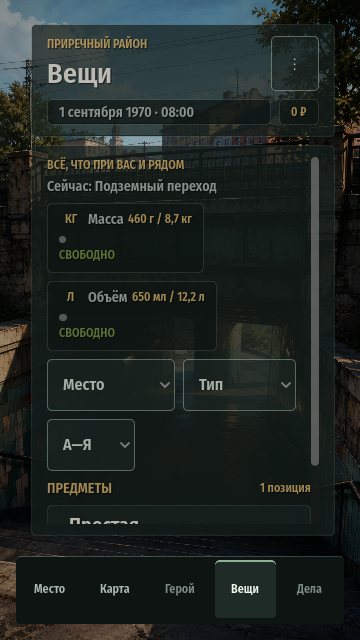
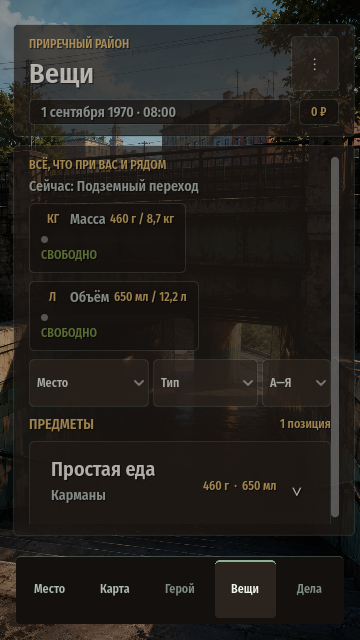
docs(ui): close the finished items and record the psyche decisions
The backlog had drifted from the code: five items were done and still listed as
open, and two rounds of work were missing from the done section entirely. Its
own rule says a finished item moves there with a date, so the drift was a
process failure, not a formatting one.

Also recorded, from discussion:

- the psyche is a single metric shown as one of seven words, and that same step
  drives the environment filter. Depression is its bottom step, not a separate
  state as the roadmap previously had it.
- the ladder was rebuilt twice. The first version stepped straight from
  равновесие to уныние with no mild band, which clinical scales avoid for good
  reason, and it mixed two axes: apathy and depression sit at low arousal while
  despair sits at high, so a single line through them read as jumps. Отчаяние is
  out and хандра fills the gap under normal.
- the filter only ever takes away. Above равновесие it does not apply, because a
  world brighter than its own photograph would cheapen the fall.
- events and life paths gated on the psyche step, with the direct link "low
  state unlocks a killer path" rejected and the reasons written down so it does
  not return in six months.
- the twelve monthly tints and the portrait of choice, whose full combination
  table is still to be collected.

Reference renders across m3a–m3d are regenerated.

diff --git a/docs/UI_BACKLOG.md b/docs/UI_BACKLOG.md
@@ -9,6 +9,7 @@
 ## 1. Как пользоваться
 
 - Пункты в разделе 4 упорядочены по приоритету. P0 — замечания игрока и то, что ломает впечатление прямо сейчас; P1 — каркас, без которого дальнейшие экраны будут накапливать хаос; P2 — полировка.
+- Раздел 5 — предложения, ждущие решения. Принятое переезжает в раздел 3 или 4, отклонённое остаётся с пометкой почему.
 - Каждый пункт закрывается только вместе с эталонным рендером и проверкой на `360×640`, `540×960` и при масштабе текста 200%.
 - Готовый пункт переносится в раздел 2 с датой, а не удаляется.
 
@@ -37,6 +38,26 @@
 Диагноз получен экспериментом: временная заливка метки маджентой не дала на рендере ни одного маджентового пикселя, что и указало на шейдер, а не на код рисования. До этого я дважды ошибался, доверяя глазам: пиксельные замеры опровергли и «фотография просвечивает сквозь панель инвентаря», и «метки не изменились».
 
 **Оставшиеся P0 закрыты (25 июля 2026).** P0.1 — карта поиска получила рамку отдельным слоем поверх арта, потому что `PanelContainer` рисует свой stylebox под детьми, а `clip_contents` режет по прямоугольнику. P0.4 — содержимое инвентаря убрано на одну непрозрачную плоскость; замер яркости в области панели упал со 178/217 до 122/120, то есть фотография действительно закрыта. P0.6 — три smoke писали эталонные снимки в `.godot/m3_ui_previews` мимо репозитория и теперь пишут в `docs/qa/m3a`.
+
+**Состояния перестали жить своей жизнью (26 июля 2026).** Закрывает P0.7, P0.8 и P0.9 — три замечания с одним корнем.
+
+«Продолжить» читалась как выделенная, потому что сплошная рамка вторичной кнопки в вертикальном меню выглядит курсором среди заливки и текстовых пунктов. Вторичная кнопка получила заливку вместо контура. Первая попытка убрала рамку совсем — и на экране создания героя кнопки «−» потеряли корпус, слившись с панелью: заливка работала на фотофоне, но не на поверхности. Вернул волосяную рамку на низкой прозрачности.
+
+Кольцо фокуса пропадало под наведением: Godot рисует его поверх stylebox состояния, и заливка подсветки его поглощала. Кольцо вынесено наружу кнопки через `expand_margin`, поэтому перекрыть его нечем.
+
+Подсказки-дубли убраны из строки действия, строки способа и лотка находок: везде всплывал текст, уже написанный на экране. На тач-устройстве подсказка вызывается долгим нажатием и закрывает то, ради чего её открыли.
+
+**Сезонная палитра (26 июля 2026).** Закрывает предложение 5.5. Двенадцать оттенков в [tokens.gd](../ui/theme/tokens.gd), применяются в `AppShell` там же, где тема пересобирается под масштаб шрифта. У поверхности берётся тон месяца, но сохраняется её собственная светлота, поэтому трёхступенчатая иерархия глубины и контраст текста не трогаются. Насыщенные цвета пропускаются по порогу: золото акцента и красный опасности несут смысл, и смысл не должен плыть по календарю. Коэффициент `SEASON_CAST` держит сезон оттенком поверх нейтральной поверхности, а не собственным цветом — без него сентябрь давал откровенно бурую панель.
+
+**Горизонтальный выбор вместо выпадающих списков (26 июля 2026).** Закрывает P0.10. Транспорт стал рядом сегментов с иконками: весь выбор виден без открытия, нажатие одно вместо двух, выбранный помечен и заливкой, и золотым рельсом сверху. Иконки нарисованы вектором — несколько линий на фигуру, масштабируются вместе с рядом и берут текущий цвет шрифта. Ряд не переносится: при нехватке места кегль опускается на ступень вниз по шкале.
+
+Фильтры инвентаря поставлены в одну линию с вариацией `FilterButton`. Экран уже умел короткие подписи на узком viewport — «Место», «Тип», «А—Я» — и я едва не принял их за обрезку.
+
+**Возврат переехал вниз (26 июля 2026).** Закрывает P0.11. Единый приём: нижняя панель, где возврат слева, а главное действие экрана справа; сверху остаётся только информация. На карте пришлось передумать: добавленная панель отняла высоту у холста и сломала прокрутку на 200%. Правильным решением оказалось перенести туда же подтверждение поездки — оно и есть главное действие экрана, а не часть карточки маршрута. Карточка стала короче, высота вернулась без подгонки чисел.
+
+**Тупик на выборе ночлега (26 июля 2026).** У `ChoiceScreen` не было выхода вообще, а до 18:00 все ночлеги закрыты временным окном: игрок упирался в список того, что нельзя сделать, и спасала только системная кнопка Back, которой в оконной сборке нет. Экран получил нижнюю панель с выходом, показываемую по решению модели: список ночлегов её объявляет, а событие, встреча и раунд работы — нет, потому что там всегда остаётся доступный ответ и уход от решения это другое.
+
+Закреплено [choice_exit_test.gd](../tests/ui/choice_exit_test.gd). Он же вскрыл дефект в `app_shell_smoke`: проверка зон касания пропускала невидимые кнопки по собственному флагу узла, хотя у скрытой панели дети остаются с `visible = true` и просто не раскладываются. Заменено на `is_visible_in_tree()`.
 
 ## 3. Принятое направление
 
@@ -125,6 +146,15 @@
 
 Готово, когда: каждое место, где интерфейс называет условие, классифицировано как цена или как раскрытие; раскрытия убраны либо переведены под настройку подсказок.
 
+### P0.12 — Пустое пространство на экране создания героя
+
+Адрес: [character_creation.tscn](../ui/screens/character_creation/character_creation.tscn).
+
+После перевода характеристик в строки на `360×640` при 100% остаётся примерно треть экрана пустой подложки. Пустота сама по себе не дефект, но здесь она выглядит незаконченностью, а не воздухом.
+
+Варианты изложены в разделе 5.
+
+
 ### P1.1 — Системы движения не существует
 
 Адрес: везде. Диагноз по коду: **ноль** токенов движения; **16 файлов** сами создают твины с **11 разными длительностями** (0.09, 0.1, 0.11, 0.16, 0.17, 0.18, 0.2, 0.22, 0.24, 0.34, 0.36); **21 файл** независимо решает, что значит «уменьшить движение».
@@ -183,13 +213,158 @@
 
 Готово, когда: либо появляется экран подробностей находки, либо кнопка удаляется из сцены вместе с сигналом.
 
+### P2.4 — Подписи узлов на карте налезают друг на друга
+
+Адрес: [city_map_canvas.gd](../ui/components/city_map_canvas.gd).
+
+На `360×640` подписи «Центральный рынок» и «Двор поликлиники» перекрываются, и обе становятся нечитаемыми. Существует независимо от правок интерфейса — рисуется в холсте карты.
+
+Готово, когда: подписи не пересекаются ни на одном из целевых размеров, либо отодвигаются от узла, либо скрываются до выбора узла.
+
 ### P2.3 — Пустые, загрузочные и ошибочные состояния не спроектированы
 
 Адрес: экраны инвентаря, карты, поиска.
 
 Готово, когда: у каждого списка есть осмысленное пустое состояние с подсказкой о следующем шаге, а не просто отсутствие строк.
 
-## 5. Проверка
+## 5. Открытые предложения
+
+### 5.1. Чем занять место на экране создания героя
+
+**Панель по содержанию, а не во весь рост.** Плоскость сжимается до своей высоты и встаёт по центру, фотография места обрамляет её сверху и снизу. Экран перестаёт выглядеть недозаполненной формой и начинает выглядеть карточкой над местом. Самое дешёвое и наименее рискованное.
+
+**Описание по месту.** Там, где высоты хватает, описание характеристики показывается прямо под названием; где не хватает — прячется за касание, как сейчас. Одно и то же содержание, разная плотность. Не спорит с прогрессивным раскрытием: прячем то, что не влезает, а не то, что секретно.
+
+**Портрет выбора.** Короткая строка, описывающая словами уже сделанный игроком выбор: «крепкий, но невезучий». Это пересказ собственного решения, а не раскрытие механики, и он даёт обратную связь до старта. Требует аккуратной формулировки, чтобы не превратиться в подсказку «как надо».
+
+Рекомендация: первое как основа, второе как адаптивная надстройка. Третье — только если найдётся тон, не скатывающийся в совет.
+
+### 5.2. Цвет вместо травяного — решено сезонной палитрой, см. 5.5
+
+Сейчас один зелёный работает фоном, поверхностью и акцентом. Он же даёт ощущение травы, которого в игре про мокрый бетон быть не должно.
+
+**Основной вариант — нейтральный графит.** Убрать зелёный тон из базы целиком: `#0e1113`, `#171b1e`, `#2a3134`. Интерфейс перестаёт спорить с фотографией, и весь цвет в кадре принадлежит месту. Самое строгое решение и лучше всего согласуется с принятым направлением.
+
+**Холодный сине-серый.** `#0d1216`, `#161d23`, `#253039`. Читается как ночь, дождь и бетон, чуть атмосфернее графита, но начинает соревноваться с фоном за настроение.
+
+**Тёплый коричнево-серый.** `#12100e`, `#1e1a16`, `#2e2823`. Табак, картон, интерьеры семидесятых. Точнее всех попадает в эпоху, но тёплая база хуже держит фотографии холодных улиц.
+
+**Про идею менять цвет от настроения или места.** Прямо возражаю против привязки базового тона интерфейса к психике: в проекте уже записано, что психический фильтр применяется к окружению и не ухудшает читаемость UI, а плавающая база сделает контраст непредсказуемым. Настроение уже говорит через шейдер окружения — это правильное место.
+
+Безопасная версия той же мысли: база остаётся постоянной, а **район** меняет один акцентный тон. Тогда вокзал, рынок и набережная различаются на ощупь, но текст всегда лежит на одной и той же поверхности.
+
+### 5.3. Психическое состояние: одна метрика, семь слов
+
+Принято 26 июля 2026 года. У психики героя **одна метрика**. Она показывается игроку одним из семи слов и она же определяет силу визуального фильтра окружения. Отдельного состояния «Депрессия» не существует — депрессия это нижняя ступень той же шкалы.
+
+| Диапазон | Ступень | Ширина | Фильтр окружения |
+|---|---|---:|---|
+| 0–9 | депрессия | 10 | максимальное обесцвечивание |
+| 10–22 | апатия | 13 | сильное |
+| 23–37 | уныние | 15 | заметное |
+| 38–54 | **хандра** | 17 | лёгкое |
+| 55–72 | **равновесие** | 18 | нет |
+| 73–88 | надежда | 16 | нет |
+| 89–100 | подъём | 12 | нет |
+
+**Фильтр только отнимает.** Он никогда не делает мир ярче базового изображения, поэтому надежда и подъём выглядят так же, как равновесие. Базовый мир и без того яркий и цветной; «ещё ярче» разрушило бы фотографическую основу и обесценило бы падение.
+
+Правила, по которым набраны слова:
+
+- **одна часть речи.** Все ступени — существительные; прежнее «ровно» было наречием и выпадало из ряда.
+- **это состояния ума, а не настроение.** Метрика называется психическим состоянием, и слова обязаны читаться так же.
+- **никакой физической усталости.** «Усталость» и «бодрость» описывают Энергию; два показателя не должны говорить одними словами.
+- **никакой собранности.** Она относится к распределению внимания у Интеллекта.
+- **соседние ступени различимы.** Прежние «уныние» и «надлом» были синонимами, переход между ними не чувствовался.
+- **есть мягкая ступень сразу под нормой.** В клинических шкалах между «минимально» и «умеренно» стоит отдельная градация: спуск не начинается сразу с выраженного состояния. Первая редакция шкалы шла от равновесия прямо к унынию, и провал был заметен на слух. Его закрывает **хандра** — человек не в духе, но живёт и действует.
+- **вся лестница лежит на одной оси.** Циркумплексная модель аффекта раскладывает состояние по валентности и возбуждению: апатия и депрессия относятся к низкому возбуждению, а отчаяние — к высокому, это мечущееся состояние. В первой редакции они стояли в одном ряду, то есть шкала склеивала две независимые оси, и переходы читались рвано. «Отчаяние» убрано; ось шкалы — витальность, то самое «желание продолжать и способность видеть возможности».
+- **короткие слова.** Подпись стоит в плотном ряду показателей; самое длинное «равновесие» в десять знаков — потолок.
+
+Ступени неравной ширины намеренно, и это не самодеятельность: в клинических шкалах полосы тоже неравные. Самые широкие — равновесие и хандра, то есть обычная жизнь. Края узкие: провалиться в депрессию или подняться к подъёму должно что-то значить. Вниз ведут четыре ступени, вверх две — игра про выживание живёт в нижней половине шкалы.
+
+Диапазон остаётся `0..100`. Менять его на 70 ради ровного деления нельзя: сотня общая для пяти показателей, лежит в сохранении и участвует в условиях событий, а особый диапазон у одного создаст исключение навсегда и потребует миграции.
+
+**Обязателен гистерезис.** Без него значение на границе будет перещёлкивать и подпись, и силу фильтра. Ступень меняется только после перехода с запасом, то есть границы вверх и вниз разные. Это же обеспечивает обещанную постепенность: событие сдвигает число, а не переставляет героя из равновесия в депрессию.
+
+Внутреннее число сохраняется, потому что на нём стоят условия событий; наружу выходит только слово.
+
+**Требует решения: что теперь делает Напряжение.** До этого решения [ROADMAP §7.1](ROADMAP.md) отдавал ему собственную роль в картинке — «усиливает контраст, холодные оттенки и ощущение резкости». Единая метрика эту роль отменяет, и в roadmap она убрана. Напряжение остаётся отдельным показателем среди пяти, но больше не трогает фильтр. Если задумывалось иначе — например, что Напряжение входит в расчёт психического состояния, — это нужно записать, потому что сейчас они независимы.
+
+### 5.4. Портрет выбора на экране создания героя
+
+Принято 26 июля 2026 года. Строка под характеристиками описывает словами уже сделанный игроком выбор и склонность героя.
+
+Граница, которую нельзя переходить: описываем **человека**, а не механику. «Крепкий, привык рассчитывать на руки» — характер. «Высокая Сила откроет работу грузчика» — раскрытие устройства игры и нарушение правила 3.4.
+
+Строка собирается из двух частей: сильнейшая характеристика даёт, кем человек является, слабейшая — чего ему это стоит. Ровный билд получает собственную формулировку.
+
+Черновые образцы:
+
+> Сила 8, Харизма 2 — «Крепкий и молчаливый. Руки выручают чаще, чем слова.»
+> Интеллект 8, Сила 2 — «Замечает то, что другие пропускают. Тяжёлая работа даётся тяжело.»
+> Удача 8, Интеллект 2 — «Ему странно везёт. В сложном путается, но как-то выкручивается.»
+> ровный билд — «Ничем особенно не выделяется. Иногда этого достаточно.»
+
+**TODO: собрать все комбинации.** Четыре характеристики дают двенадцать упорядоченных пар «сильнейшая — слабейшая» плюс случай ровного распределения и случай ничьей. Текст хранится таблицей в данных, не в коде. Русскую редактуру формулировок проходить отдельно: сейчас это черновик одного автора.
+
+Склонность формулируется как расположение характера, а не как перечень открывающихся занятий: «такие чаще берутся за работу руками, чем за разговоры» допустимо, список доступных профессий — нет.
+
+### 5.5. Сезонная палитра
+
+Принято 26 июля 2026 года. Базовый тон интерфейса меняется по месяцу игрового года.
+
+Возражение против цвета, зависящего от настроения, остаётся в силе: настроение непредсказуемо, меняется в момент решения и уже говорит через шейдер окружения. Месяц — противоположный случай: медленный, предсказуемый и являющийся частью мира.
+
+**Меняется тон, а не светлота.** Все двенадцать значений держат одну яркость, поэтому контраст текста не гуляет: проверено, диапазон 14.7–15.7:1 при норме 4.5:1. Акцент (золото) и опасность (красный) остаются постоянными, иначе смысл цветов поплывёт.
+
+| Месяц | Фон | Чем обосновано |
+|---|---|---|
+| Январь | `#101a22` | ледяной синий, глухой холод |
+| Февраль | `#15171f` | сизый, серо-фиолетовый |
+| Март | `#111c1c` | талый серо-зелёный |
+| Апрель | `#141d18` | влажная земля |
+| Май | `#16200f` | зелень, но приглушённая |
+| Июнь | `#1a1f10` | густая листва |
+| Июль | `#1f1d12` | выгоревшая пыль |
+| Август | `#211b12` | тёплая охра |
+| Сентябрь | `#231a13` | ржавая листва |
+| Октябрь | `#211711` | бурый, опад |
+| Ноябрь | `#181b1d` | мокрый асфальт |
+| Декабрь | `#14161f` | ранние сумерки |
+
+Смена происходит на границе месяца плавным переходом, а не рывком посреди экрана. Зелёный остаётся только в мае и июне — как сезон, а не как постоянный тон; это снимает исходную претензию к «травяному» интерфейсу.
+
+### 5.6. События и жизненные пути от психического состояния
+
+Принято 26 июля 2026 года как направление. Геймплей не реализуется до готовности Event Director к этому виду условий.
+
+**Видимость вариантов зависит от ступени.** Метрика определена как способность видеть доступные возможности, и это берётся буквально: при низких ступенях часть вариантов в карточке просто не показывается. Не серым и не с объяснением — их нет. Одна ситуация при равновесии предлагает четыре выхода, при унынии три, при депрессии два. Мир не изменился; изменилось то, что герой в нём различает.
+
+Это согласуется с уже принятыми правилами: закрытые варианты по умолчанию скрыты, а у достижимой карточки всегда остаётся хотя бы один выход, поэтому тупика не возникает даже на дне.
+
+Обратное направление тоже работает: подъём и надежда открывают варианты, требующие инициативы — заговорить первым, предложить план, заметить чужую возможность. Не прибавка к успеху, а другой набор действий.
+
+**События с гейтом на ступень.** Низкие ступени открывают ситуации, где героя не замечают или замечают те, кто ищет уязвимых; высокие — где нужна инициатива. Условие ставится на ступень, а не на число, поэтому контент не привязан к порогам, которые могут поехать.
+
+**Жизненные пути открываются устойчивым состоянием, а не провалом на день.** Тот же принцип инерции, что у полярностей с порогами ±25/±50/±75.
+
+Из устойчиво низкого: затворничество — герой перестаёт искать людей и живёт скрытыми местами; ожесточение — сюда ветвится криминальная линия; зависимость, уже описанная в проекте как состояние с причинами и выходом.
+
+Из устойчиво высокого: опора для других — роадмап уже называет лидерство в сообществе одной из концовок; и длинные замыслы, требующие горизонта, которого при унынии не бывает.
+
+**Отклонено: прямая связка «состояние → насилие».** Путь вроде «психопата-убийцы», открываемый низким психическим состоянием, отклонён по трём причинам.
+
+Он делает один показатель мастер-ключом к самому драматичному контенту: игроки начнут загонять героя вниз ради контента, и состояние, которое должно ощущаться как потеря, станет ресурсом. Это прямо тот риск, который в roadmap назван «единственная оптимальная стратегия».
+
+Он противоречит собственному правилу проекта: болезни и зависимости — состояния с причинами и лечением, а не черты с плюсами и минусами. Путь, открываемый одним значением, превращает состояние обратно в черту.
+
+И он неверен по существу: депрессия уплощает волю, а не порождает агрессию; связь психических расстройств с насилием слабая и преимущественно обратная. Игра, которая всерьёз берётся за бедность и не делает из героя объект насмешки, на этом споткнётся заметно.
+
+Взамен: тёмный путь открывается **схождением независимых условий** — дрейф Харизмы к Давлению, конкретные факты истории, запускающее событие, и низкое состояние как одно из слагаемых. Само состояние честно отвечает за снятие тормозов: при низких ступенях видны варианты, которые устойчивый человек не рассматривает. Это «нечего терять», а не «болезнь делает убийцей».
+
+**Что придётся сторожить.** Низкое состояние должно отнимать больше, чем открывает, иначе станет стратегией: меньше видимых вариантов, хуже исходы, дороже выход. На дне нужны отдельные события-зацепки, дающие путь вверх, иначе получится смертельная спираль, о которой roadmap уже предупреждает.
+
+## 6. Проверка
 
 Любой пункт закрывается одним и тем же набором:
 
